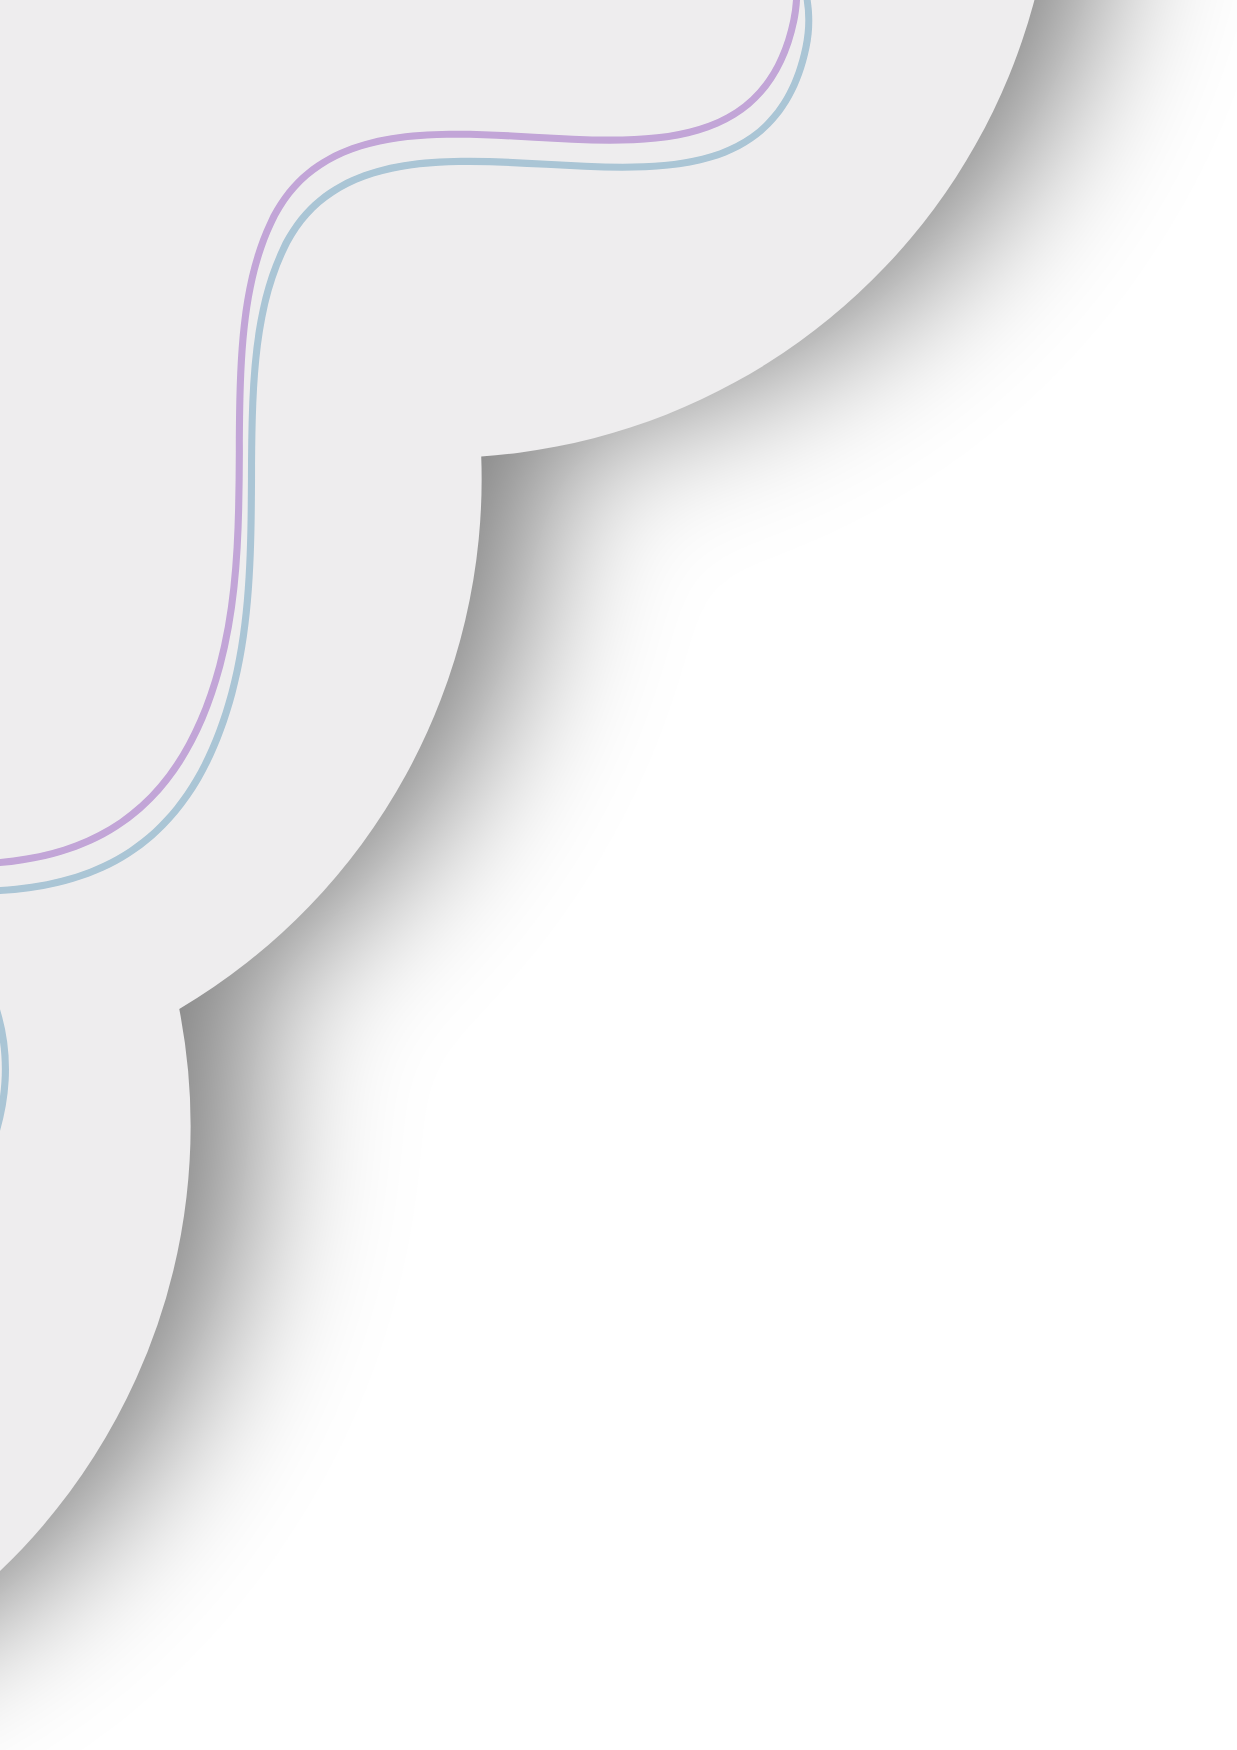
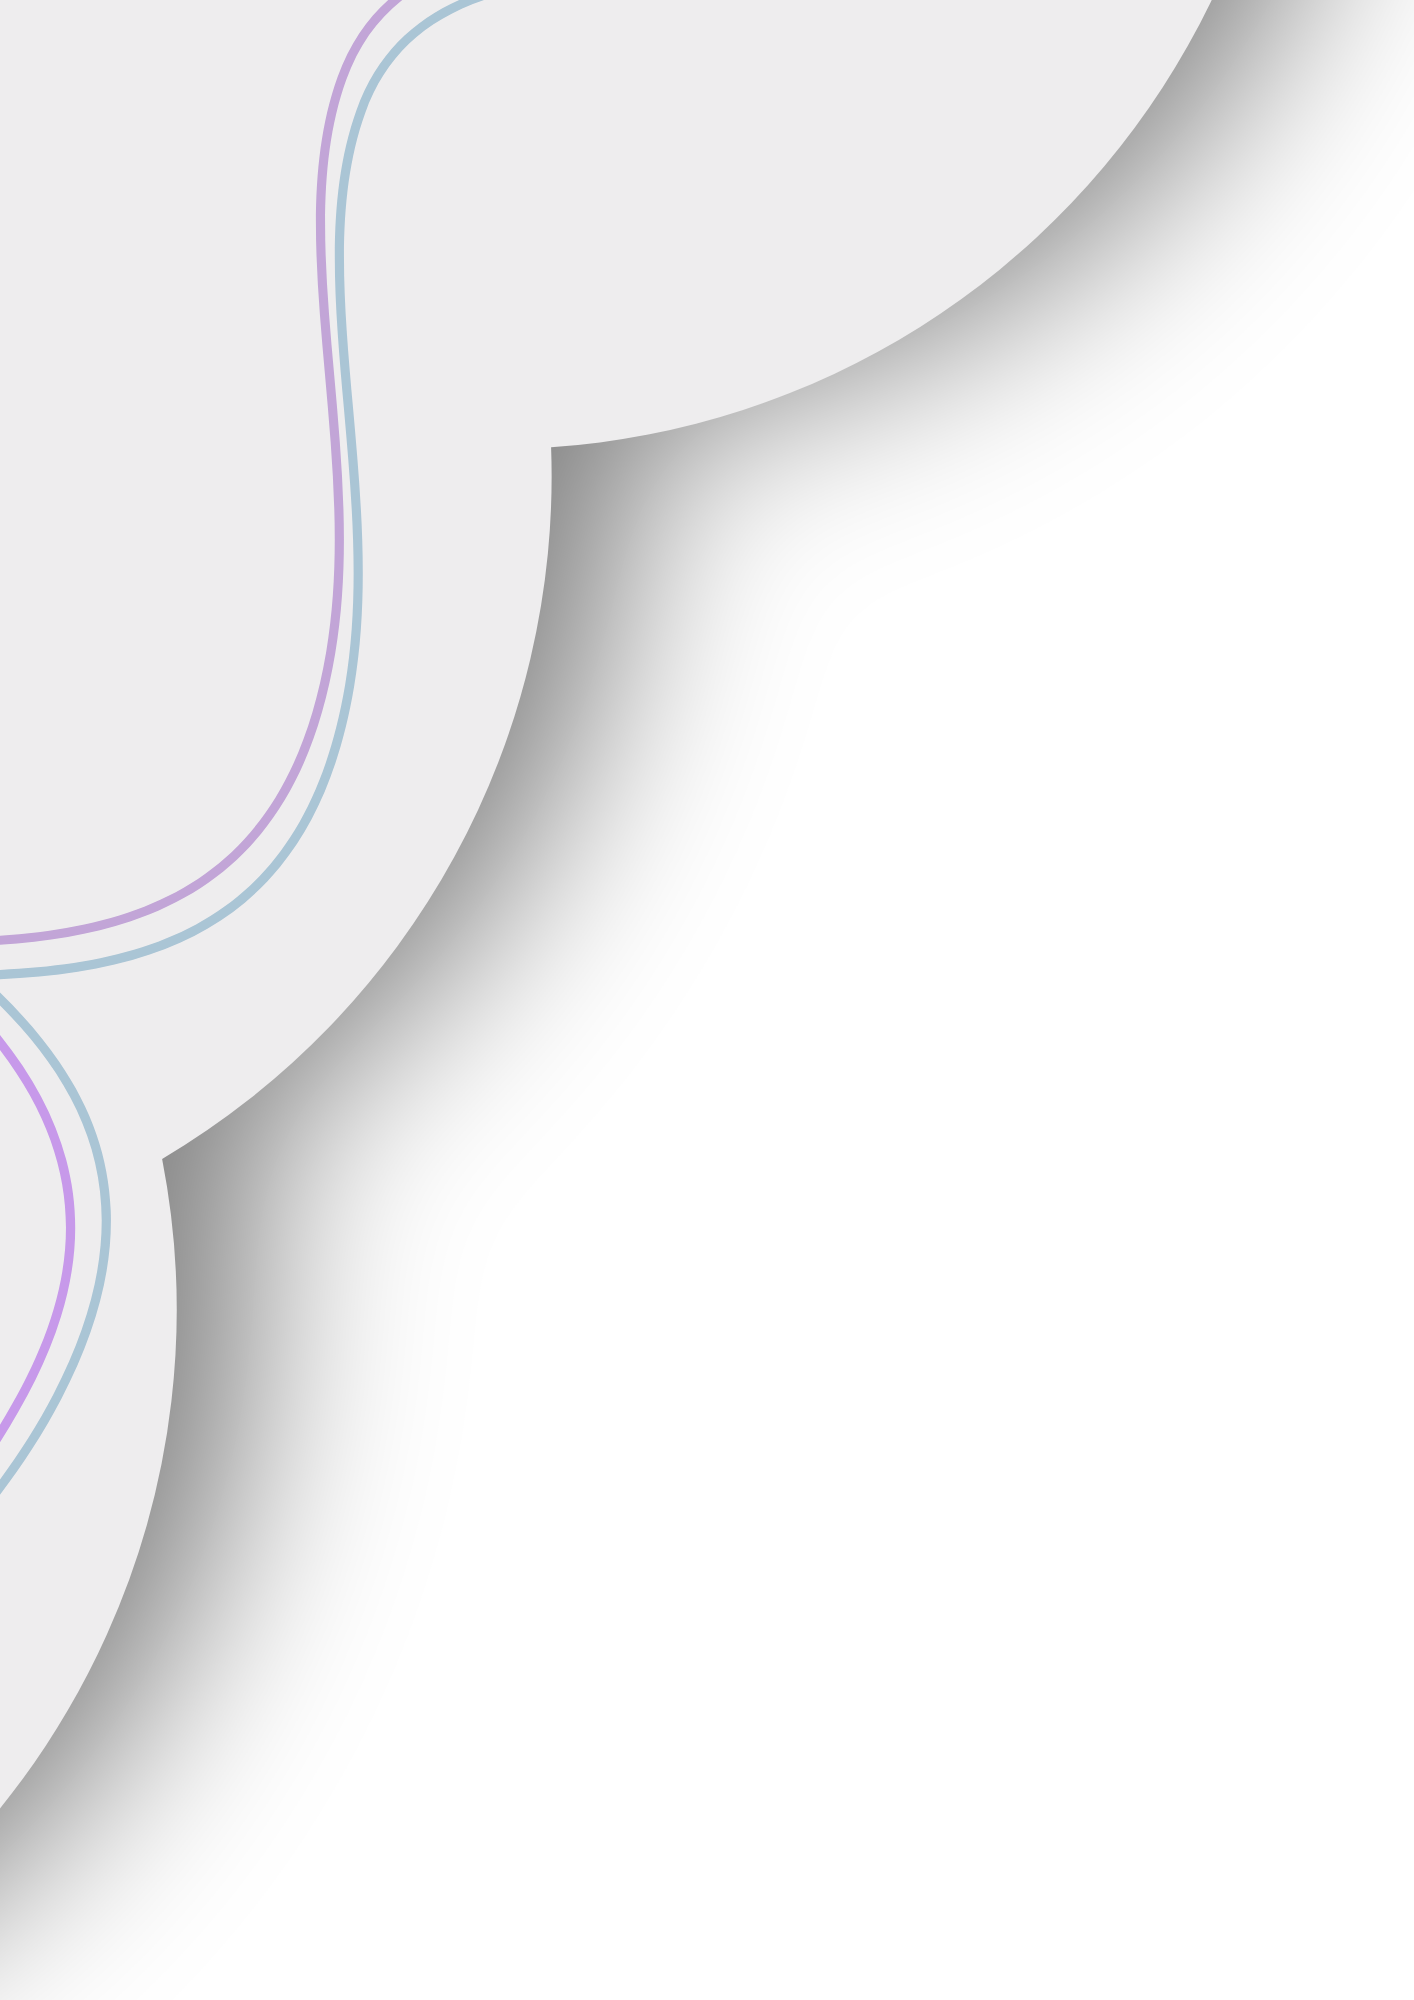
added body bg color and reuploaded landing bg elements

diff --git a/admin/src/styles/landing.scss b/admin/src/styles/landing.scss
@@ -13,6 +13,9 @@
     font-style: normal;
 }
 
+body{
+    background: linear-gradient(130deg, #E7CAE8, #F0FFF8);
+}
 
 .main {
     height: 100dvh;
@@ -20,16 +23,18 @@
     flex-direction: column;
     justify-content: space-evenly;
     align-items: center;
-    // background: linear-gradient(130deg, #ddf8df, #f0d1fa);
 
-    img:nth-child(1){
+
+
+    img:nth-child(1) {
         position: absolute;
         left: 0px;
         top: 0px;
         height: 100%;
         z-index: -1;
     }
-    img:nth-child(2){
+
+    img:nth-child(2) {
         position: absolute;
         right: 0px;
         bottom: 0px;
@@ -38,11 +43,23 @@
     }
 
     h1 {
-        font-size: 2.3rem;
+        font-size: 4vw;
         text-shadow: 2px 1px 0px rgba(131, 25, 188, 0.3);
         color: #8319BC;
         font-family: sans-serif;
         font-weight: 900;
+        white-space: nowrap;
+        text-align: center;
+
+        @media (max-width: 768px) {
+            // Tablets & Mobile
+            font-size: 9vw;
+        }
+
+        @media (max-width: 480px) {
+            // Small Screens
+            font-size: 12vw;
+        }
     }
 
     h3 {
@@ -103,15 +120,20 @@
 }
 
 @media (max-width: 768px) {
+
+    //tablet
     .main {
-        img:nth-child(1){
+
+        // background-color: red;
+        img:nth-child(1) {
             position: absolute;
             left: 0px;
             top: 0px;
             height: 60%;
             z-index: -1;
         }
-        img:nth-child(2){
+
+        img:nth-child(2) {
             position: absolute;
             right: 0px;
             bottom: 0px;
@@ -121,16 +143,19 @@
     }
 }
 
-@media (max-width: 480px) { //mobile
+@media (max-width: 480px) {
+
+    //mobile
     .main {
-        img:nth-child(1){
+        img:nth-child(1) {
             position: absolute;
             left: 0px;
             top: 0px;
             z-index: -1;
             height: 50%;
         }
-        img:nth-child(2){
+
+        img:nth-child(2) {
             position: absolute;
             right: 0px;
             bottom: 0px;

diff --git a/client/src/styles/landing.scss b/client/src/styles/landing.scss
@@ -13,6 +13,9 @@
     font-style: normal;
 }
 
+body{
+    background: linear-gradient(130deg, #E7CAE8, #F0FFF8);
+}
 
 .main {
     height: 100dvh;
@@ -22,14 +25,16 @@
     align-items: center;
 
 
-    img:nth-child(1){
+
+    img:nth-child(1) {
         position: absolute;
         left: 0px;
         top: 0px;
         height: 100%;
         z-index: -1;
     }
-    img:nth-child(2){
+
+    img:nth-child(2) {
         position: absolute;
         right: 0px;
         bottom: 0px;
@@ -38,11 +43,23 @@
     }
 
     h1 {
-        font-size: 2.3rem;
+        font-size: 4vw;
         text-shadow: 2px 1px 0px rgba(131, 25, 188, 0.3);
         color: #8319BC;
         font-family: sans-serif;
         font-weight: 900;
+        white-space: nowrap;
+        text-align: center;
+
+        @media (max-width: 768px) {
+            // Tablets & Mobile
+            font-size: 9vw;
+        }
+
+        @media (max-width: 480px) {
+            // Small Screens
+            font-size: 12vw;
+        }
     }
 
     h3 {
@@ -103,15 +120,20 @@
 }
 
 @media (max-width: 768px) {
+
+    //tablet
     .main {
-        img:nth-child(1){
+
+        // background-color: red;
+        img:nth-child(1) {
             position: absolute;
             left: 0px;
             top: 0px;
             height: 60%;
             z-index: -1;
         }
-        img:nth-child(2){
+
+        img:nth-child(2) {
             position: absolute;
             right: 0px;
             bottom: 0px;
@@ -121,16 +143,19 @@
     }
 }
 
-@media (max-width: 480px) { //mobile
+@media (max-width: 480px) {
+
+    //mobile
     .main {
-        img:nth-child(1){
+        img:nth-child(1) {
             position: absolute;
             left: 0px;
             top: 0px;
             z-index: -1;
             height: 50%;
         }
-        img:nth-child(2){
+
+        img:nth-child(2) {
             position: absolute;
             right: 0px;
             bottom: 0px;
